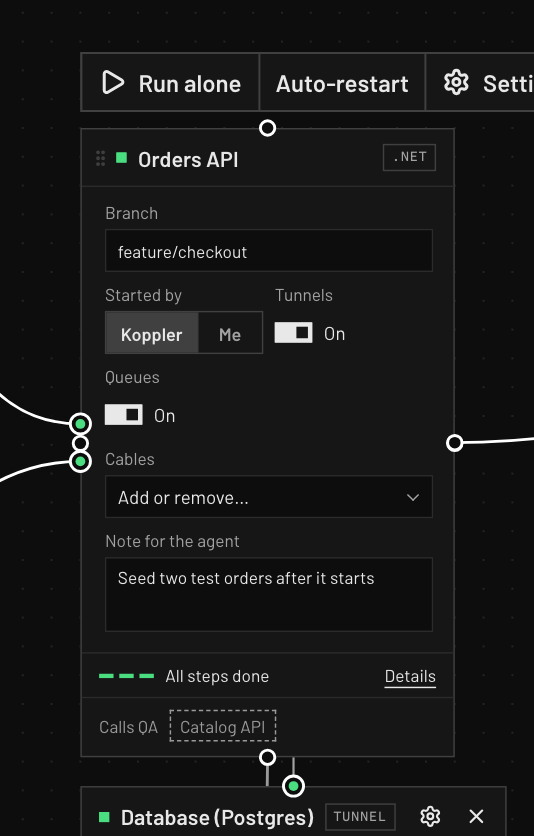
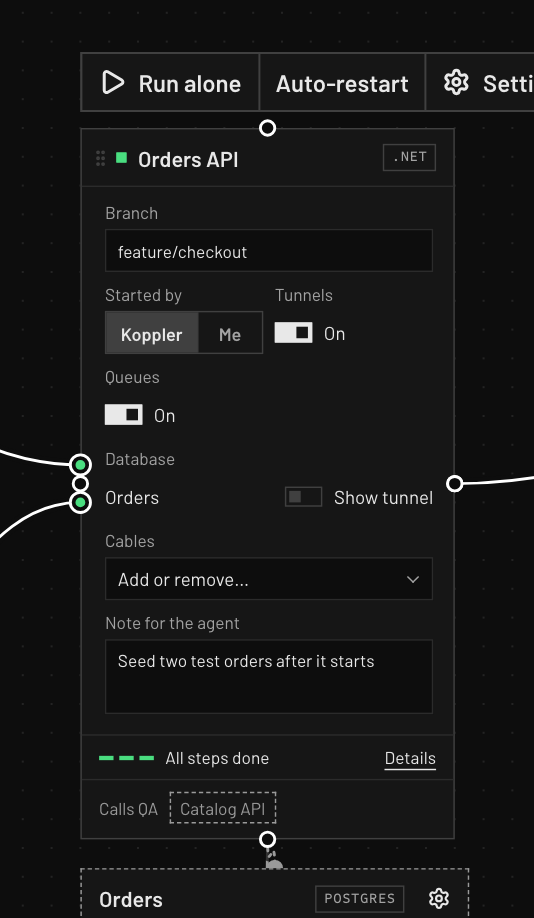
Screenshots with databases: the board shows Orders API's QA database, and a new one shows two databases behind one tunnel; the canvas docs say how databases work

diff --git a/app/screenshots/canvas.shots.ts b/app/screenshots/canvas.shots.ts
@@ -15,9 +15,14 @@ const shot = async (page: Page, name: string, clip?: { x: number; y: number; wid
 
 const { web = {}, orders = {}, payments = {}, catalog = {} } = STACK.apps;
 type Apps = Record<string, Record<string, unknown>>;
-const stack: { queues: object; apps: Apps } & typeof STACK = {
+const stack: { queues: object; databases: object; apps: Apps } & typeof STACK = {
   ...STACK,
   queues: { 'order-events': { name: 'Order events', type: 'sqs', queue: 'order-events-qa' } },
+  // One tunnel to the Aurora cluster, with each API's database behind it.
+  databases: {
+    'orders-db': { name: 'Orders', kind: 'postgres', tunnel: 'aurora.qa.acme.example', port: 5432 },
+    'payments-db': { name: 'Payments', kind: 'postgres', tunnel: 'aurora.qa.acme.example', port: 5432 },
+  },
   apps: {
     mobile: {
       name: 'Mobile App',
@@ -26,7 +31,7 @@ const stack: { queues: object; apps: Apps } & typeof STACK = {
       consumes: { orders: { how: 'env', env: 'ORDERS_URL' } },
     },
     web,
-    orders: { ...orders, publishes: { 'order-events': {} } },
+    orders: { ...orders, prereqs: [], envs: {}, publishes: { 'order-events': {} }, uses: { 'orders-db': {} } },
     payments: {
       ...payments,
       reads: { 'order-events': {} },
@@ -51,8 +56,8 @@ const board = {
   nodes: {
     mobile: { ...at(0, 0), platform: 'ios' },
     web: at(0, 480),
-    orders: { ...at(560, 200), note: 'Seed two test orders after it starts' },
-    payments: { ...at(1160, 200), note: 'Use the sandbox merchant account, not the live one' },
+    orders: { ...at(560, 0), note: 'Seed two test orders after it starts' },
+    payments: { ...at(1160, 0), note: 'Use the sandbox merchant account, not the live one' },
   },
   queues: { 'order-events': 'local' },
   edges: [
@@ -170,5 +175,44 @@ test.describe('zoomed out', () => {
     await page.mouse.move(700, 850);
     await page.waitForTimeout(600);
     await shot(page, 'zoomed-out');
+  });
+});
+
+// Two APIs whose databases sit behind one tunnel to the Aurora cluster.
+test.describe('databases', () => {
+  const { apps } = stack;
+  const alone = (id: string, uses: string) => {
+    const { publishes: _p, reads: _r, consumes: _c, ...app } = apps[id] ?? {};
+    return { ...app, uses: { [uses]: {} } };
+  };
+  test.use({
+    stack: {
+      ...stack,
+      queues: {},
+      apps: { orders: alone('orders', 'orders-db'), payments: alone('payments', 'payments-db') },
+    },
+    board: {
+      env: 'qa',
+      mode: 'auto',
+      zoom: 0.62,
+      pan: { x: 80, y: 90 },
+      nodes: { orders: { ...at(0, 0), showQueues: false }, payments: { ...at(760, 0), showQueues: false } },
+      edges: [],
+    },
+  });
+  test('behind their tunnel', async ({ page }) => {
+    await running(page);
+    await healthy(page);
+    await page.reload();
+    await settle(page);
+    await expect(page.locator('.svelte-flow__node-database')).toHaveCount(2);
+    const boxes = (
+      await Promise.all((await page.locator('.svelte-flow__node').all()).map(one => one.boundingBox()))
+    ).flatMap(one => one ?? []);
+    const x = Math.min(...boxes.map(one => one.x)) - 32;
+    const y = Math.min(...boxes.map(one => one.y)) - 32;
+    const width = Math.max(...boxes.map(one => one.x + one.width)) + 32 - x;
+    const height = Math.max(...boxes.map(one => one.y + one.height)) + 32 - y;
+    await shot(page, 'databases', { x, y, width, height });
   });
 });

diff --git a/docs/canvas.md b/docs/canvas.md
@@ -17,7 +17,7 @@ A board file can also be opened, dropped on the page or linked from GitHub.
 
 ## Cards
 
-<img alt="One feature, Checkout, worked on across four apps: the mobile app and web shop cabled to a local Orders API, which calls a local Payments API; each runs its feature/checkout branch, Orders API has a database tunnel and a local SQS queue, two apps carry a note for the agent, and everything runs" src="images/board.png">
+<img alt="One feature, Checkout, worked on across four apps: the mobile app and web shop cabled to a local Orders API, which calls a local Payments API; each runs its feature/checkout branch, Orders API has its deployed QA database and a local SQS queue, two apps carry a note for the agent, and everything runs" src="images/board.png">
 
 Each app is a card with:
 
@@ -74,9 +74,16 @@ Every call without a cable goes to the deployed app of the chosen environment.
 Cables are always curves, so any board you see is one you could draw yourself.
 A cable leaves its caller from a hollow ring and plugs into the app it calls at a solid socket.
 
-## Tunnels, queues and outside systems
+## Databases, tunnels, queues and outside systems
 
 These appear next to the app that uses them, and show or hide with it.
+
+<img alt="Orders API and Payments API, their databases Orders and Payments behind one tunnel to the Aurora cluster: the tunnel card has a row for each database, open for both, and each database card is deployed on QA and reachable" src="images/databases.png">
+
+- **Databases** the stack names under `databases` each have a card, with a switch between **Deployed** (dashed: the environment's database, through its tunnel) and **Local** (solid: your own database on this Mac).
+  The first time a database goes Local, its card asks where it runs (host, port, database name), with **Test connection**; the address is kept on this Mac only, never in the stack, and can be changed from the card or the database's settings.
+  A run points each app at its local database through its setting, or the one line the stack says to change, undone on Stop. Deployed on PROD asks first.
+- The tunnel card has a row per database behind it, and the line to each database leaves from its row. **Show tunnel** on an app's card draws its line through the tunnel card, or straight to the database; by default the tunnel shows when two or more apps on the board share it. A right click on a line does the same.
 
 - **Tunnels** carry an app to a deployed database or service. Koppler opens one per host and port, shared by the apps that need it, and moves a clashing one to a free port. Each can be left out of a run, and one that runs can be restarted from its card when calls through it hang.
 - **Queues** (SQS, SNS, EventBridge, Kafka) show which apps publish and read. A switch on the card picks **Deployed** (local apps use the environment's queue) or **Local** (Koppler starts an SQS emulator or a Kafka broker in Docker and points every app on that queue at it). A queue can be hidden and shown again from its app.

diff --git a/README.md b/README.md
@@ -12,7 +12,7 @@ Everything you leave unplugged keeps calling the deployed environment you chose.
 Koppler is for local development.
 It helps most when you work on one app (a mobile app, a front end, one API) and need a few of its neighbours running next to it.
 
-<img alt="One feature, Checkout, worked on across four apps: the mobile app and web shop cabled to a local Orders API, which calls a local Payments API; each runs its feature/checkout branch, Orders API has a database tunnel and a local SQS queue, two apps carry a note for the agent, and everything runs" src="docs/images/board.png">
+<img alt="One feature, Checkout, worked on across four apps: the mobile app and web shop cabled to a local Orders API, which calls a local Payments API; each runs its feature/checkout branch, Orders API has its deployed QA database and a local SQS queue, two apps carry a note for the agent, and everything runs" src="docs/images/board.png">
 
 ## How it works
 

diff --git a/docs/getting-started.md b/docs/getting-started.md
@@ -46,7 +46,7 @@ koppler canvas
 It starts the canvas server when needed and opens it in your browser.
 The agent chip in the toolbar shows whether an agent session is connected; you only need one for notes, checklists and fixes.
 
-<img alt="One feature, Checkout, worked on across four apps: the mobile app and web shop cabled to a local Orders API, which calls a local Payments API; each runs its feature/checkout branch, Orders API has a database tunnel and a local SQS queue, two apps carry a note for the agent, and everything runs" src="images/board.png">
+<img alt="One feature, Checkout, worked on across four apps: the mobile app and web shop cabled to a local Orders API, which calls a local Payments API; each runs its feature/checkout branch, Orders API has its deployed QA database and a local SQS queue, two apps carry a note for the agent, and everything runs" src="images/board.png">
 
 ## 5. Your first run
 
